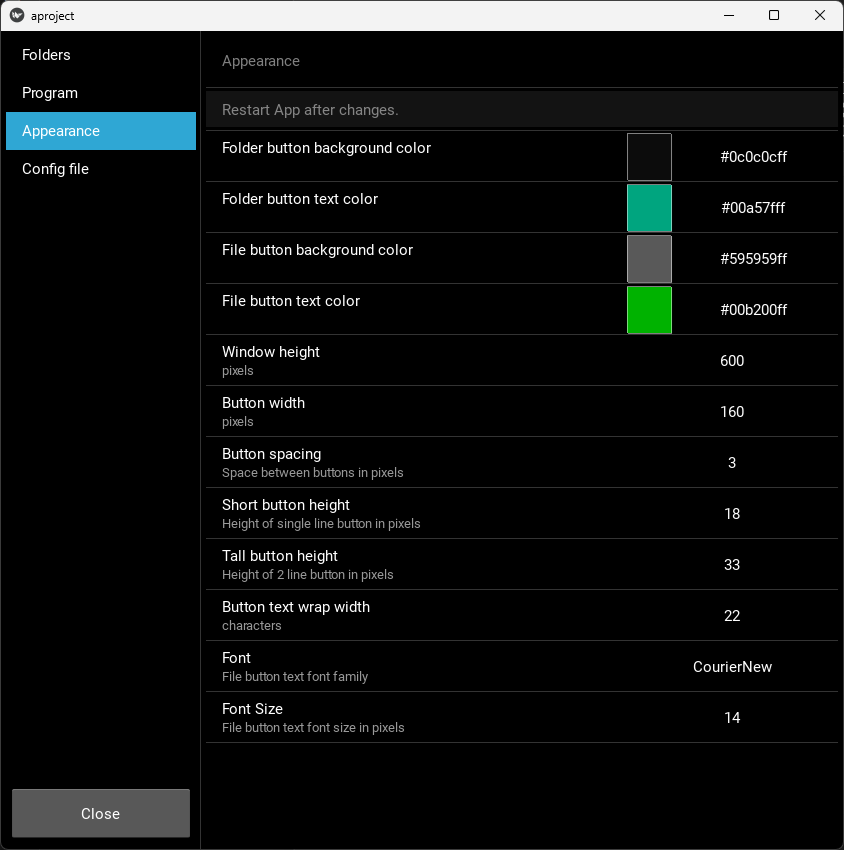
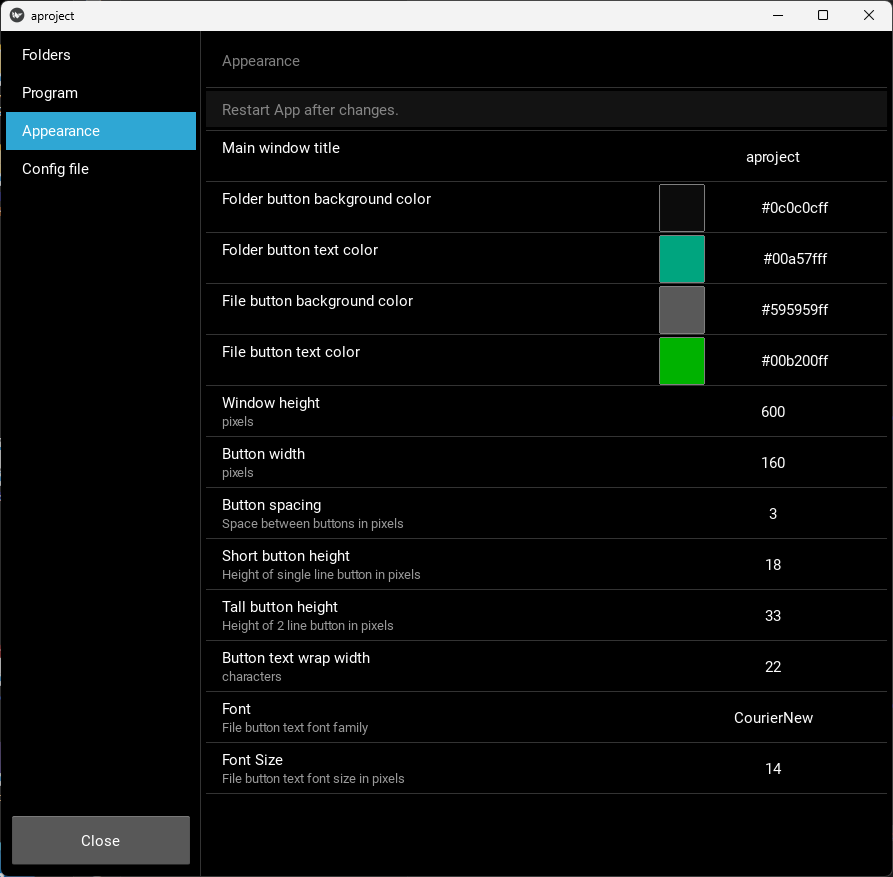
Replace arg --title with config file key.
- Remove command line --title argument.
- Add window_title key to the config file.
- Add Main window title to the Appearance configuration panel and update the screenshot. for the docs.
- Update unit test.
- Bump project version.
- Update README.

diff --git a/src/filebuttons/kv.py b/src/filebuttons/kv.py
@@ -58,13 +58,6 @@ def main_argparser() -> argparse.ArgumentParser:
     )
 
     parser.add_argument(
-        "--title",
-        help="Text to display in the main window title bar. Default is 'filebuttons'.",
-        metavar="TEXT",
-        default="filebuttons",
-    )
-
-    parser.add_argument(
         "--config",
         help="Configuration file containing settings.",
         type=pathlib.Path,
@@ -568,6 +561,7 @@ class FilebuttonsApp(App):
         config.setdefaults(
             "filebuttons",
             {
+                "window_title": "filebuttons",
                 "program": "code",  # Visual Studio Code
                 "folder_background_color": "#0c0c0cff",
                 "folder_text_color": "#00a57fff",
@@ -588,11 +582,15 @@ class FilebuttonsApp(App):
         print("App.build-")
         self.settings_cls = SettingsWithSidebar
         self.use_kivy_settings = False
+        assert self.config is not None, "Avoid pylance None nag."
 
         # Set the text appearing in the titlebar of the main window.
-        Clock.schedule_once(partial(self.set_mainwindow_title, args.title))
+        Clock.schedule_once(
+            partial(
+                self.set_mainwindow_title, self.config["filebuttons"]["window_title"]
+            )
+        )
 
-        assert self.config is not None, "Avoid pylance None nag."
         Builder.load_string(kv)
         app_layout = BoxLayout(
             orientation="horizontal", width=layout_width, padding=3, spacing=3
@@ -741,6 +739,13 @@ class FilebuttonsApp(App):
         """Helper returns json panel data for the appearance settings."""
         setting_list = [
             {"type": "title", "title": "Restart App after changes."},
+            {
+                "type": "string",
+                "title": "Main window title",
+                "desc": "",
+                "section": "filebuttons",
+                "key": "window_title",
+            },
             {
                 "type": "color",
                 "title": "Folder button background color",

diff --git a/tests/test_kivy_startup.py b/tests/test_kivy_startup.py
@@ -24,8 +24,6 @@ class TestCallersConfig(unittest.TestCase):
             "--",  # tell kivy following args are for the App
             "--config",
             "../config_files/aproject.ini",
-            "--title",
-            "aproject",
         ]
         # filebuttons looks for files relative to the current working directory.
         with contextlib.chdir("docs/aproject"):
@@ -91,6 +89,7 @@ src/filebuttons =
 tests =
 
 [filebuttons]
+window_title = filebuttons
 program = code
 folder_background_color = #0c0c0cff
 folder_text_color = #00a57eff

diff --git a/README.md b/README.md
@@ -45,14 +45,13 @@ filebuttons -- -h
 The -- unlocks the filebuttons help. Without it you get the Kivy framework help.
 
 ```text
-usage: filebuttons.exe [KIVY OPTION...] [-- PROGRAM OPTIONS]:: [-h] [--title TEXT] [--config FILE]
+usage: filebuttons.exe [KIVY OPTION...] [-- PROGRAM OPTIONS]:: [-h] [--config FILE]
 
 Button panel. Each button runs a program with the file. Use to launch a file into a source code editor, IDE, or
 arbitrary program.
 
 options:
   -h, --help     show this help message and exit
-  --title TEXT   Text to display in the main window title bar. Default is 'filebuttons'.
   --config FILE  Configuration file containing settings.
 ```
 
